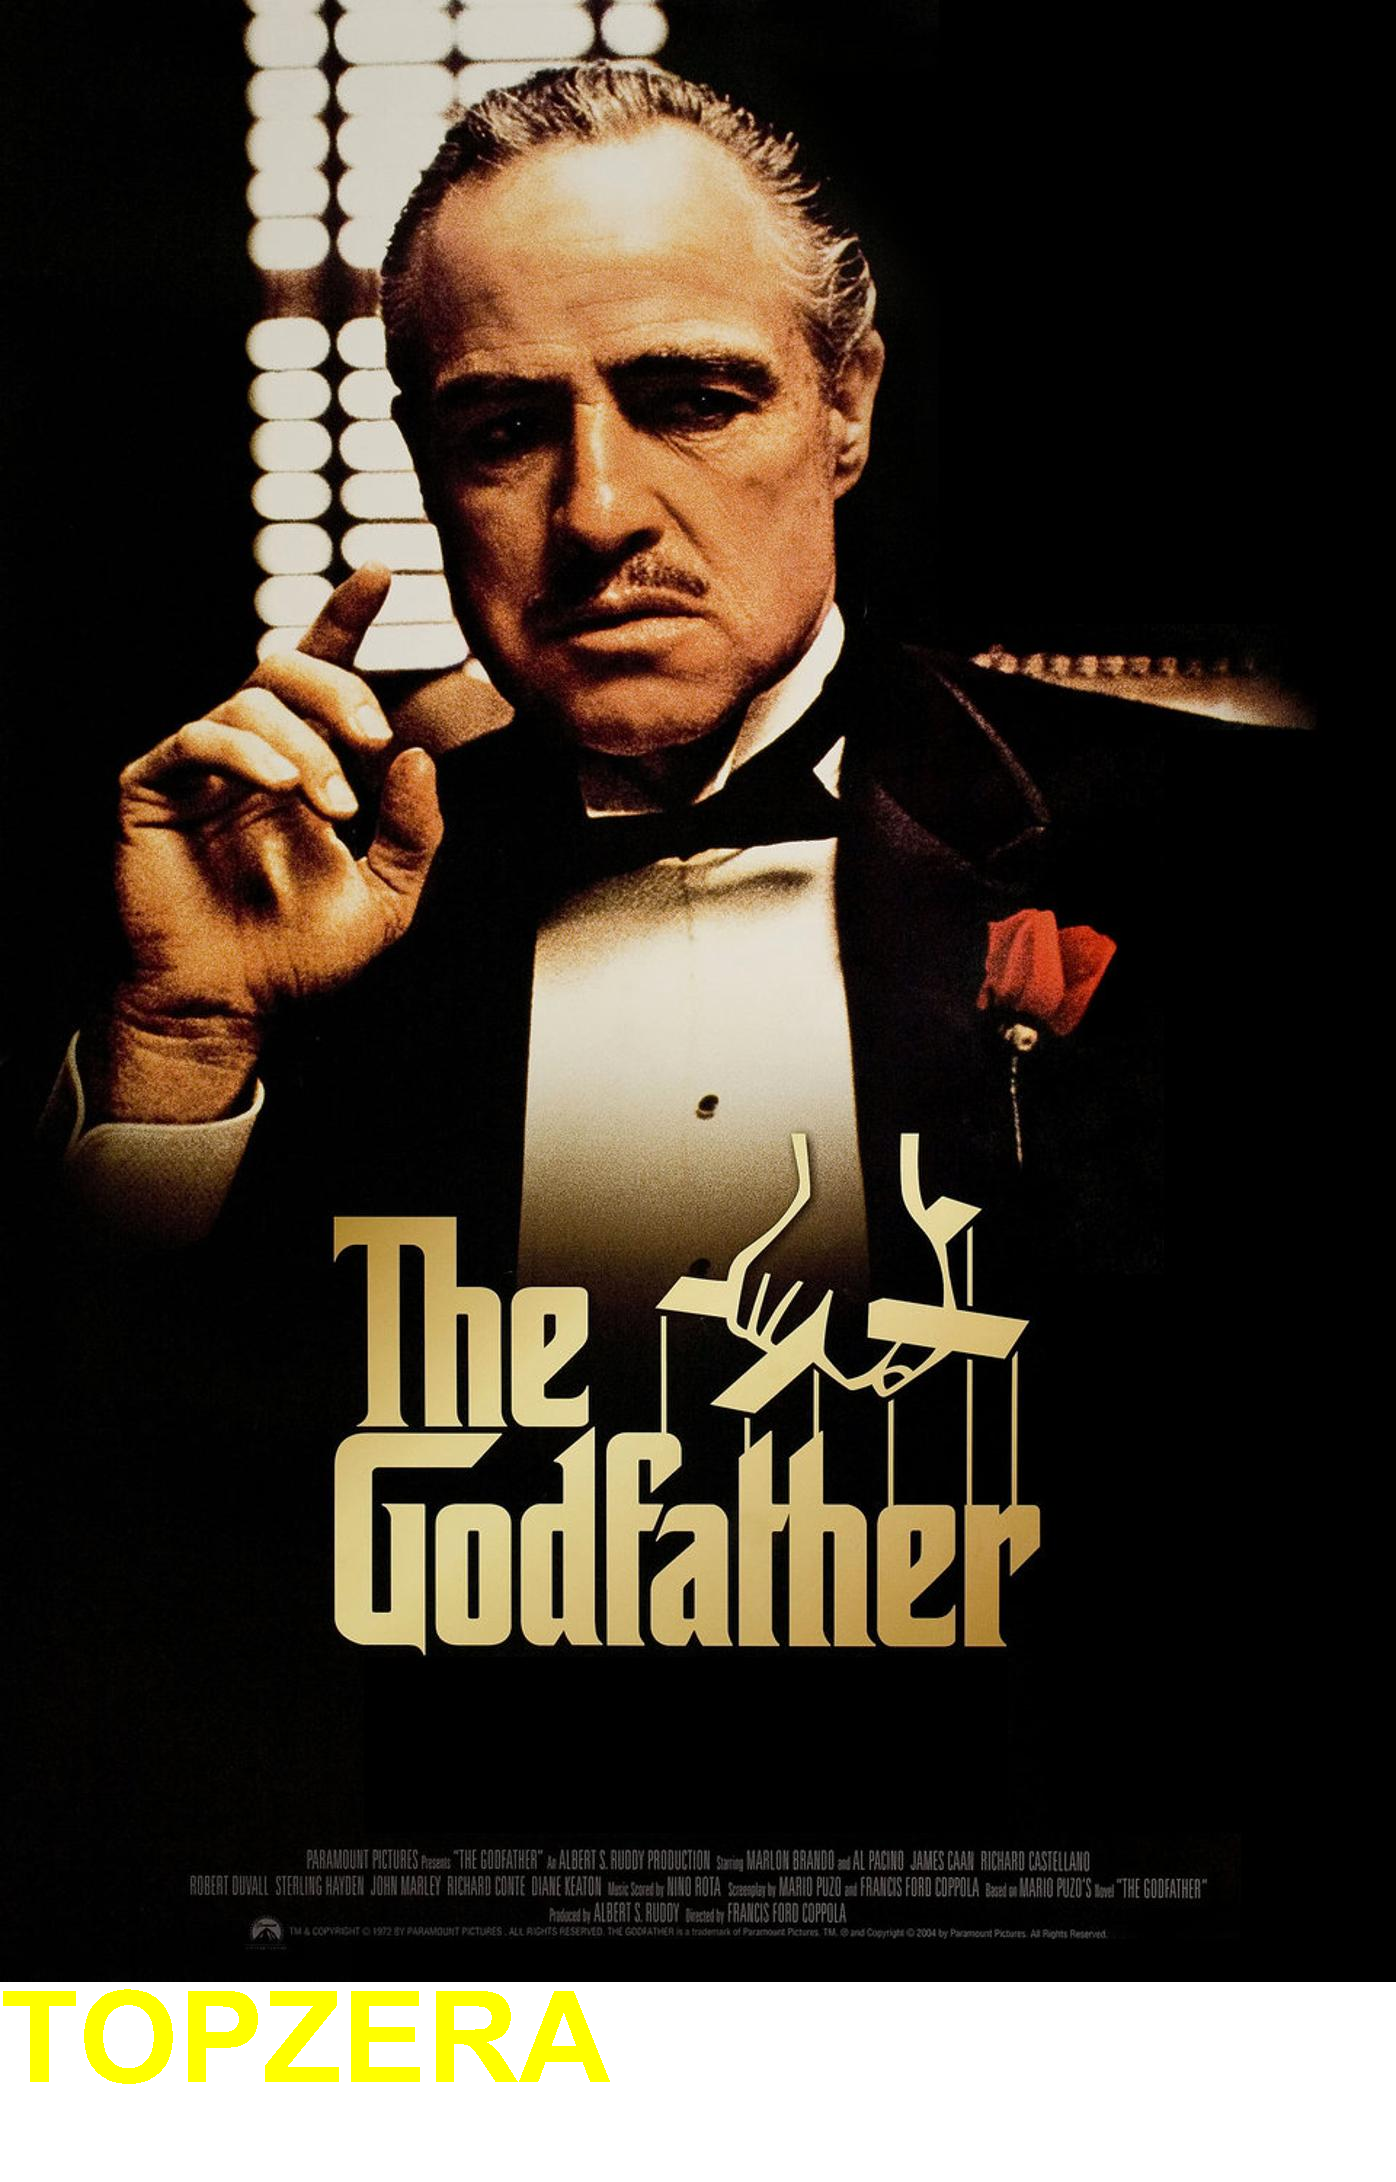
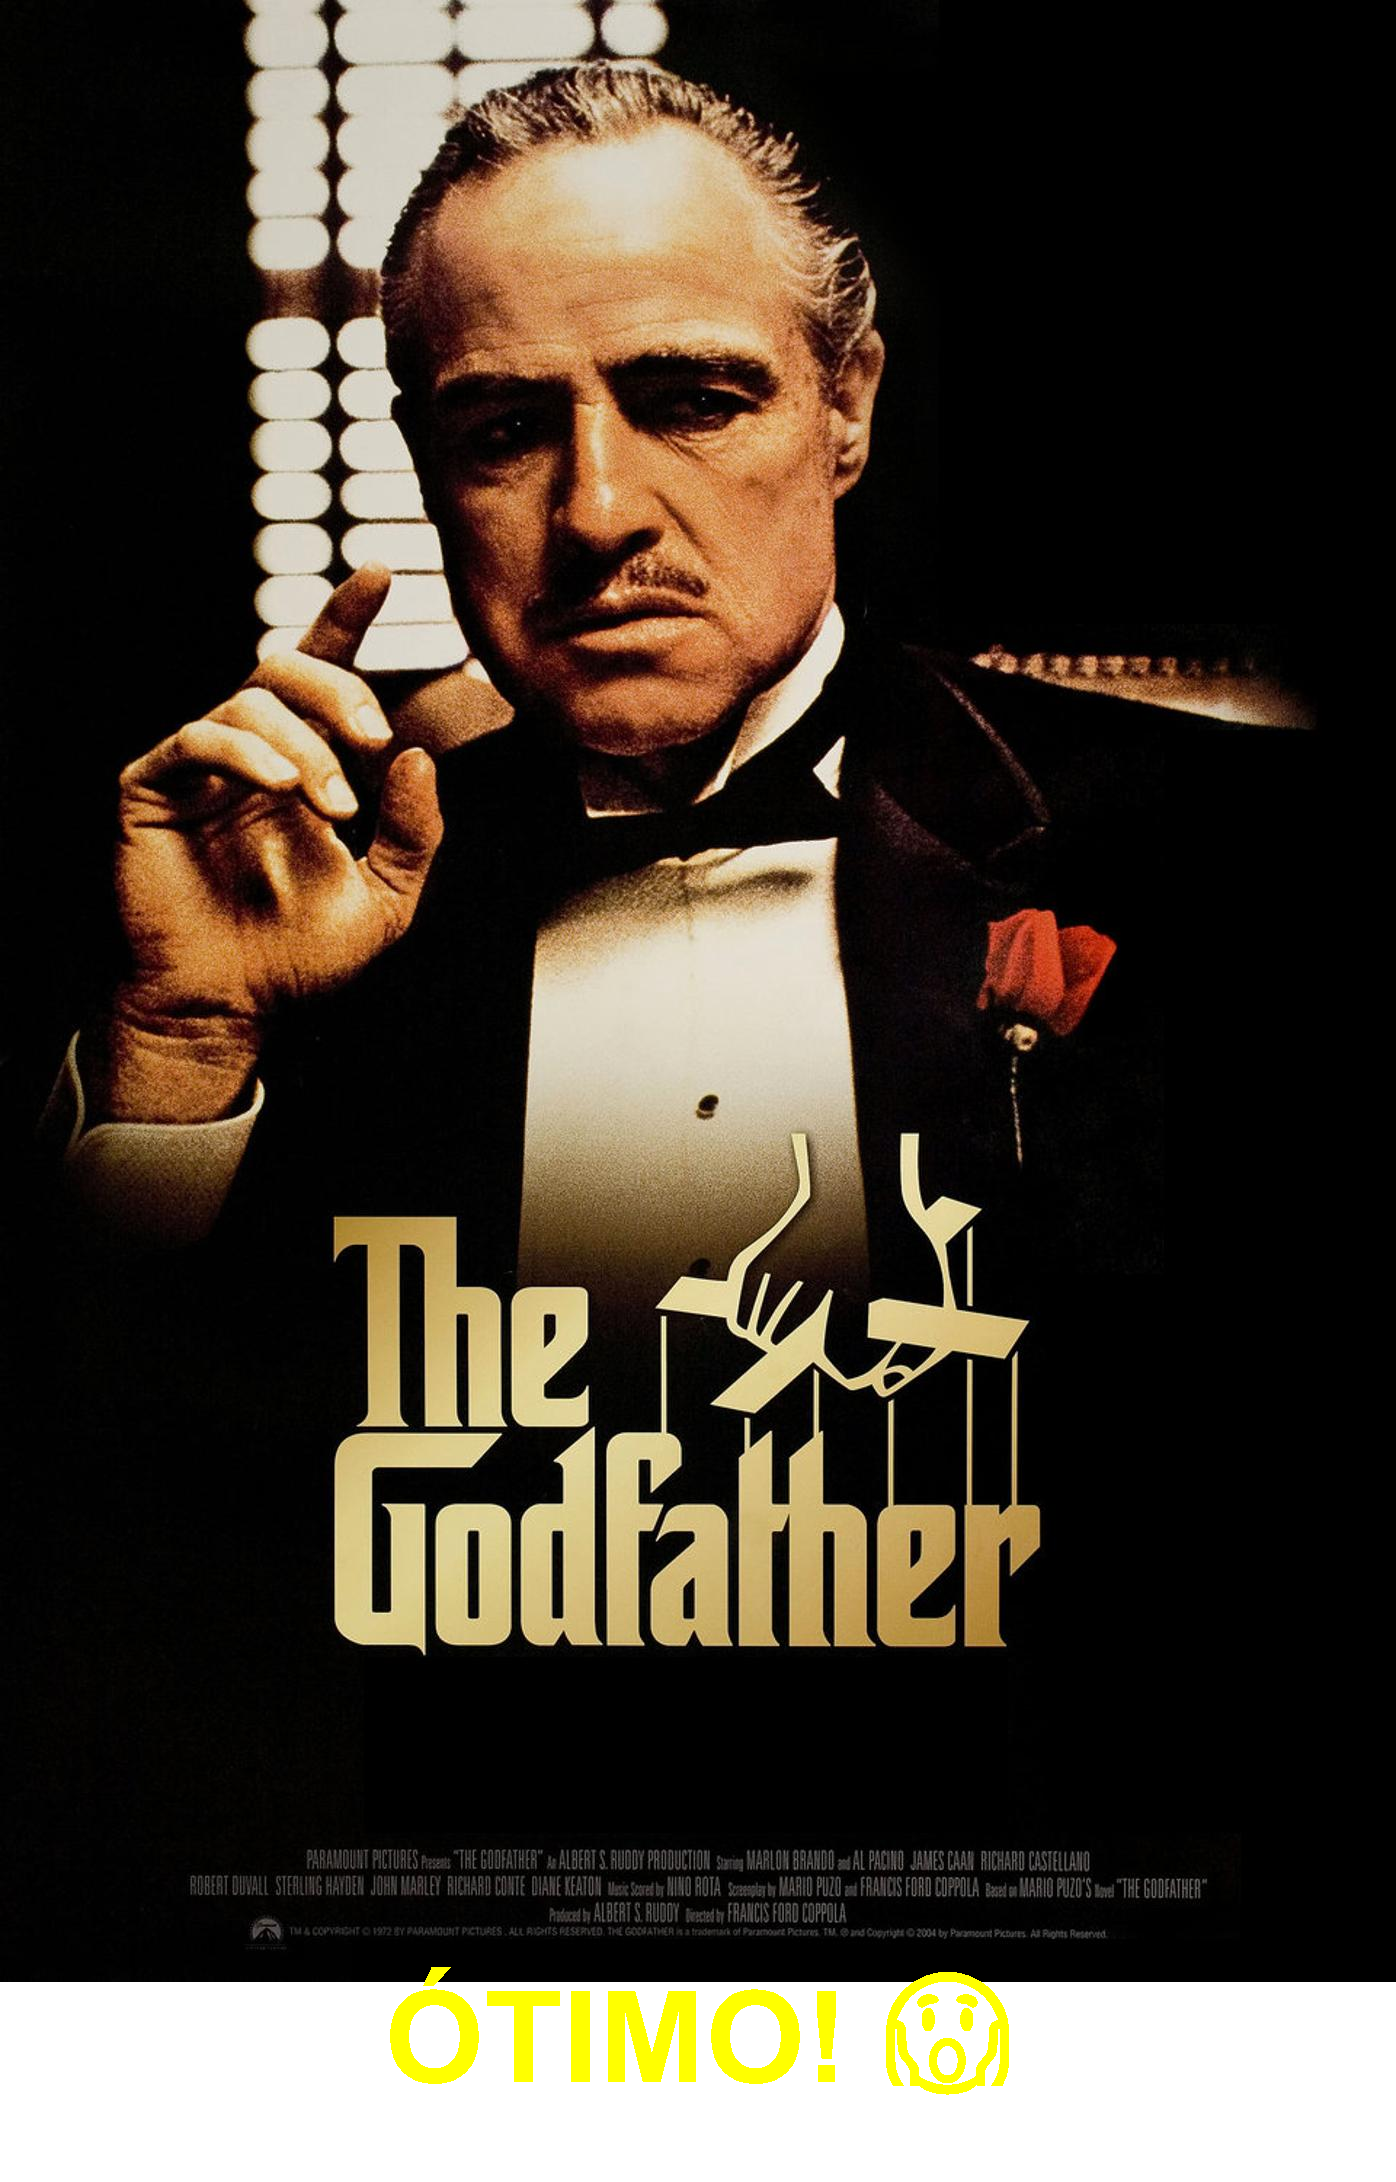
add Aula 02 - Desafio 9

Changed region(s): [[0.0, 0.9038, 0.7393, 0.9661]]

diff --git a/src/GeradoraDeFigurinhas.java b/src/GeradoraDeFigurinhas.java
@@ -8,7 +8,7 @@ import java.io.InputStream;
 import javax.imageio.ImageIO;
 
 public class GeradoraDeFigurinhas {
-    public void cria(InputStream inputStream, String nomeArquivo) throws Exception {
+    public void cria(InputStream inputStream, String nomeArquivo, Double classificacao) throws Exception {
         BufferedImage imagemOriginal = ImageIO.read(inputStream);
 
         int largura = imagemOriginal.getWidth();
@@ -20,8 +20,28 @@ public class GeradoraDeFigurinhas {
         graphics.drawImage(imagemOriginal, 0, 0, null);
         graphics.setColor(Color.YELLOW);
         graphics.setFont(new Font(Font.SANS_SERIF, Font.BOLD, 128));
-        graphics.drawString("TOPZERA", 0, novaAltura - 100);
-        
+
+        String textoDaFigurinha = "";
+
+        if (classificacao >= 0 && classificacao <= 3) {
+            textoDaFigurinha = "💀 PÉSSIMO! 💀";
+        } else if (classificacao >= 4 && classificacao <= 5) {
+            textoDaFigurinha = "RUIM! 🍅";
+        } else if (classificacao >= 6 && classificacao <= 7) {
+            textoDaFigurinha = "MEDIANO 😶";
+        } else if (classificacao >= 8 && classificacao < 9) {
+            textoDaFigurinha = "BOM! 😁";
+        } else if (classificacao >= 9 && classificacao < 10) {
+            textoDaFigurinha = "ÓTIMO! 😱";
+        } else if (classificacao == 10) {
+            textoDaFigurinha = "🌟 BEST SELLER! 🌟";
+        } else {
+            textoDaFigurinha = "Classificação inválida.";
+        }
+
+        int centroHorizontal = (largura / 2) - (graphics.getFontMetrics().stringWidth(textoDaFigurinha) / 2);
+        graphics.drawString(textoDaFigurinha, centroHorizontal, novaAltura - 100);
+
         ImageIO.write(novaImagem, "png", new File("saida/" + nomeArquivo));
     }
 }

diff --git a/src/App.java b/src/App.java
@@ -30,7 +30,9 @@ public class App {
 
             InputStream inputStream = new URL(enderecoImagem).openStream();
 
-            geradora.cria(inputStream, nomeDoArquivo);
+            double classificacao = Double.parseDouble(filme.get("imDbRating"));
+
+            geradora.cria(inputStream, nomeDoArquivo, classificacao);
         }
     }
 }

diff --git a/README.md b/README.md
@@ -1,30 +1,3 @@
-<h1 align="center">
-<p align="center"> imersão java_</p>
-<img src="https://www.alura.com.br/assets/img/imersao-java/imersao-logo.1655844054.svg" alt="logo" width="500"/>
-</h1>
+# Desafio 9
 
-<p align="center">
-<img src="https://img.shields.io/github/license/andre-alck/alura-stickers?logoColor=yes"/>
-<img src="https://img.shields.io/github/last-commit/andre-alck/alura-stickers"/><br>
-<img src="https://img.shields.io/badge/Java-green"/>
-
-> **5 aulas de programação, gratuitas, para você desenvolver do zero sua primeira aplicação em Java, progredir na carreira e ampliar ou começar o seu portfólio.**
-
-## AULA 01 - CONSUMINDO UMA API DE FILMES COM JAVA
-
-Aplicação para consumir diferentes API's e exibir os filmes mais populares, destacando seus pôsteres e visualizando sua classificação.
-
-- **Código da aula**
-> O código principal está presente na branch "[master](https://github.com/andre-alck/alura-stickers/tree/master)".
-
-- **API**
-> A API do IMDB (durante o desenvolvimento do projeto) estava fora do ar. Portanto, foram utilizados [endereços alternativos](https://www.alura.com.br/imersao-java/aulas/aula01-consumindo-api-com-java?utm_source=ActiveCampaign&utm_medium=email&utm_content=%5BImers%C3%A3o+Java%5D+Aula+1+liberada++Vem+ver%21&utm_campaign=%5BImers%C3%A3o%5D+%28Java+1%C2%B0+ed+%29++Libera%C3%A7%C3%A3o+aula+01&vgo_ee=aSktwNDD9Fow5juMvTy0n3wFoqDlMHNmyq65fGLdufk%3D#:~:text=lugar%20da%20URL%2C-,s%C3%A3o%20eles,-%3A) criados pela comunidade.
-
-- **Desafios**
-> Cada desafio possui sua respectiva branch.
-
-> Nota-se que o [Desafio 4 da Aula 1](https://github.com/andre-alck/alura-stickers/tree/aula01_desafio4#:~:text=Imposs%C3%ADvel%20completar%20este,completar%20desta%20maneira.) deve ser reestruturado pela Alura.
-
-## AULA 02 - GERANDO FIGURINHAS PARA WHATSAPP
-
-Criação de uma classe GeradoraDeFigurinhas. Esta possui um método "cria", que recebe um InputStream e uma String com o nome da imagem final. Em suma, ao chamar o método, serão aplicadas alterações e manipulações na imagem de entrada e gravadas em uma nova imagem.
+Fazer com que o texto da figurinha seja personalizado de acordo com as classificações do IMDB.
